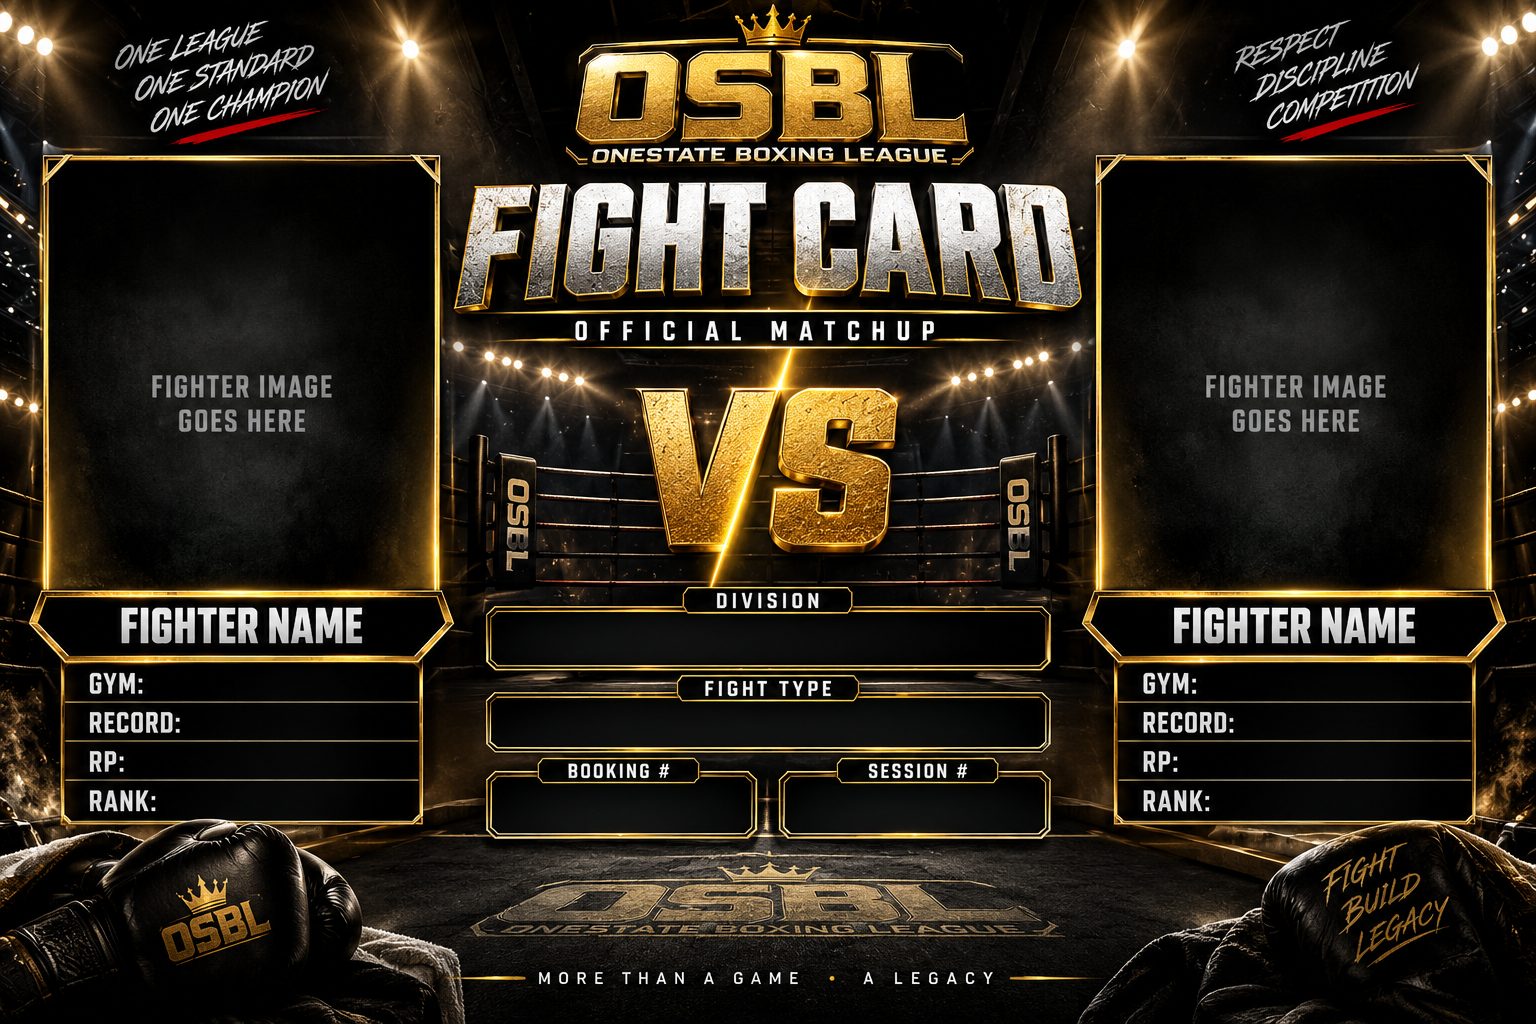
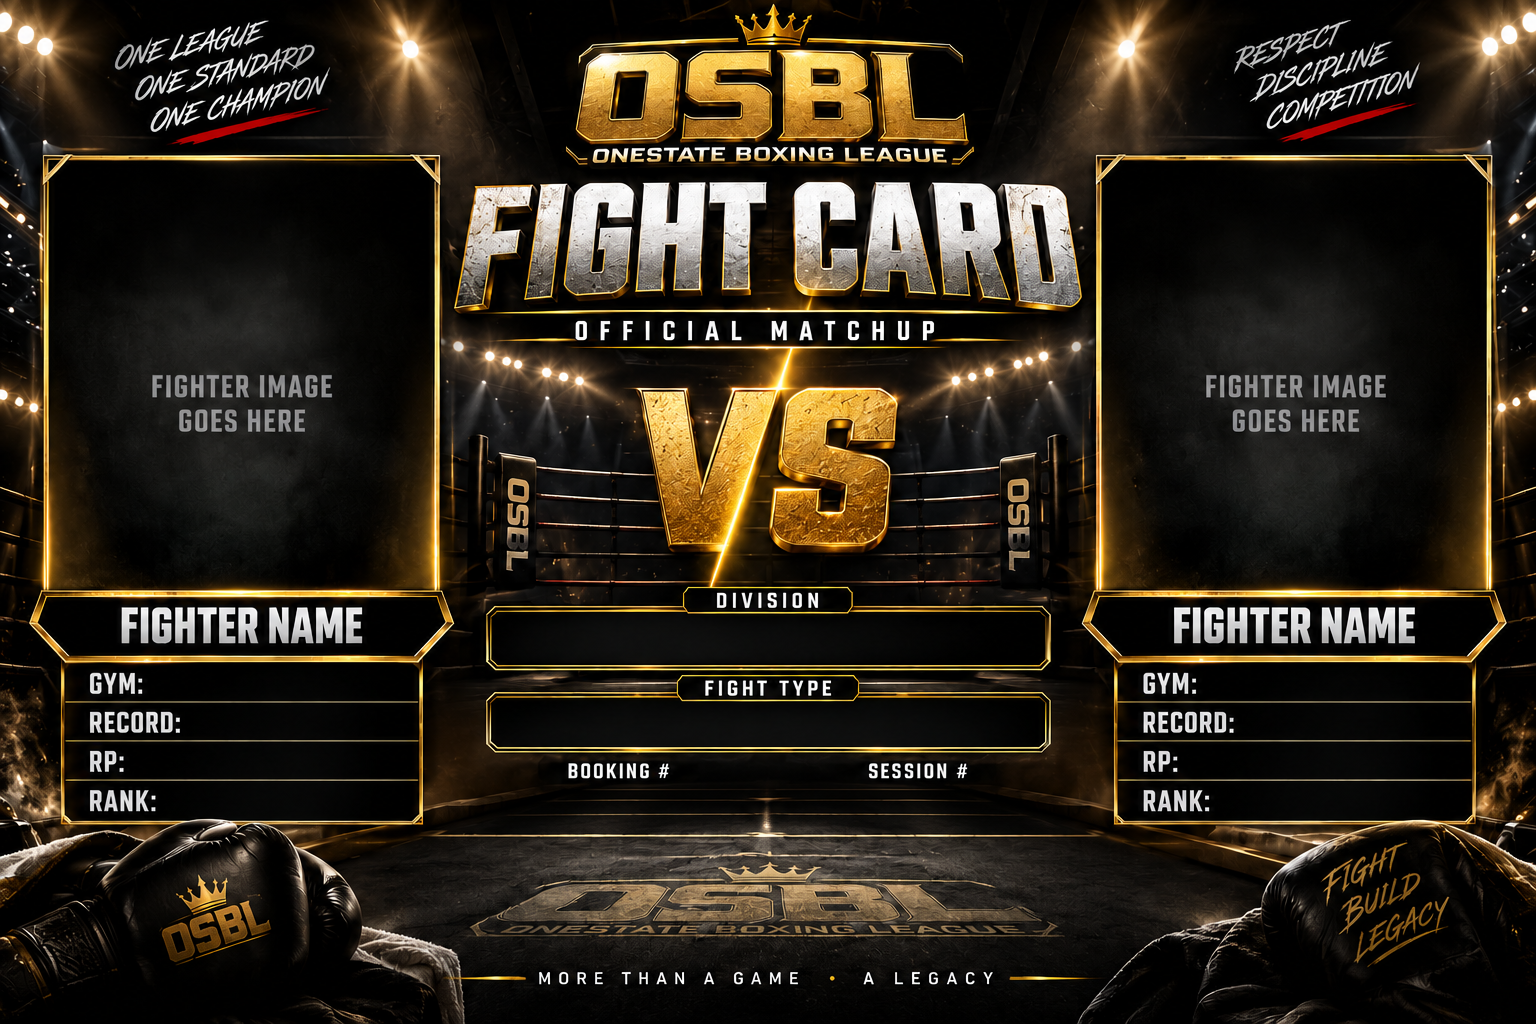
Finalize clean OSBL fight card template

diff --git a/bot.py b/bot.py
@@ -558,7 +558,7 @@ async def osbl(ctx):
     await ctx.send(embed=embed)
 
 
-POSTER_RENDERER_VERSION = "V8-FINAL-CLEAN-FIGHT-CARDS-2026-09-09"
+POSTER_RENDERER_VERSION = "V9-CLEAN-BOOKING-SESSION-2026-09-09"
 RANKINGS_SYSTEM_VERSION = "V1-AUTO-RANKINGS-2026-09-08"
 FIGHTER_PROFILE_VERSION = "V3-OFFICIAL-FIGHTER-CARDS-2026-09-08"
 GYM_SYSTEM_VERSION = "V1-GYM-STANDINGS-2026-09-08"
@@ -1199,14 +1199,13 @@ def _render_osbl_fight_poster(booking, fighter1, fighter2):
     session_id = booking["fight_night_session_id"]
     session_text = str(session_id) if session_id else "—"
 
-    center_fields = [
+    # Division and Fight Type still use the template's framed value panels.
+    framed_fields = [
         ((486, 612, 1050, 666), division_text, 31),
         ((486, 694, 1050, 748), fight_type_text, 29),
-        ((488, 778, 742, 835), booking_text, 30),
-        ((794, 778, 1048, 835), session_text, 30),
     ]
 
-    for box, value, size in center_fields:
+    for box, value, size in framed_fields:
         _cover_value_area(
             draw,
             (box[0] + 5, box[1] + 7, box[2] - 5, box[3] - 5),
@@ -1214,6 +1213,31 @@ def _render_osbl_fight_poster(booking, fighter1, fighter2):
         )
         font = _fit_font(draw, value, box[2] - box[0] - 25, size, 16)
         _draw_centered(draw, box, value, font, fill=white, stroke=1)
+
+    # Booking # and Session # are intentionally clean text only.
+    # The V9 template has no extra boxes under these labels.
+    booking_box = (500, 786, 744, 824)
+    session_box = (792, 786, 1036, 824)
+
+    booking_font = _fit_font(draw, booking_text, 210, 29, 16)
+    session_font = _fit_font(draw, session_text, 210, 29, 16)
+
+    _draw_centered(
+        draw,
+        booking_box,
+        booking_text,
+        booking_font,
+        fill=white,
+        stroke=2,
+    )
+    _draw_centered(
+        draw,
+        session_box,
+        session_text,
+        session_font,
+        fill=white,
+        stroke=2,
+    )
 
     output = io.BytesIO()
     canvas.save(output, format="PNG", optimize=True)
